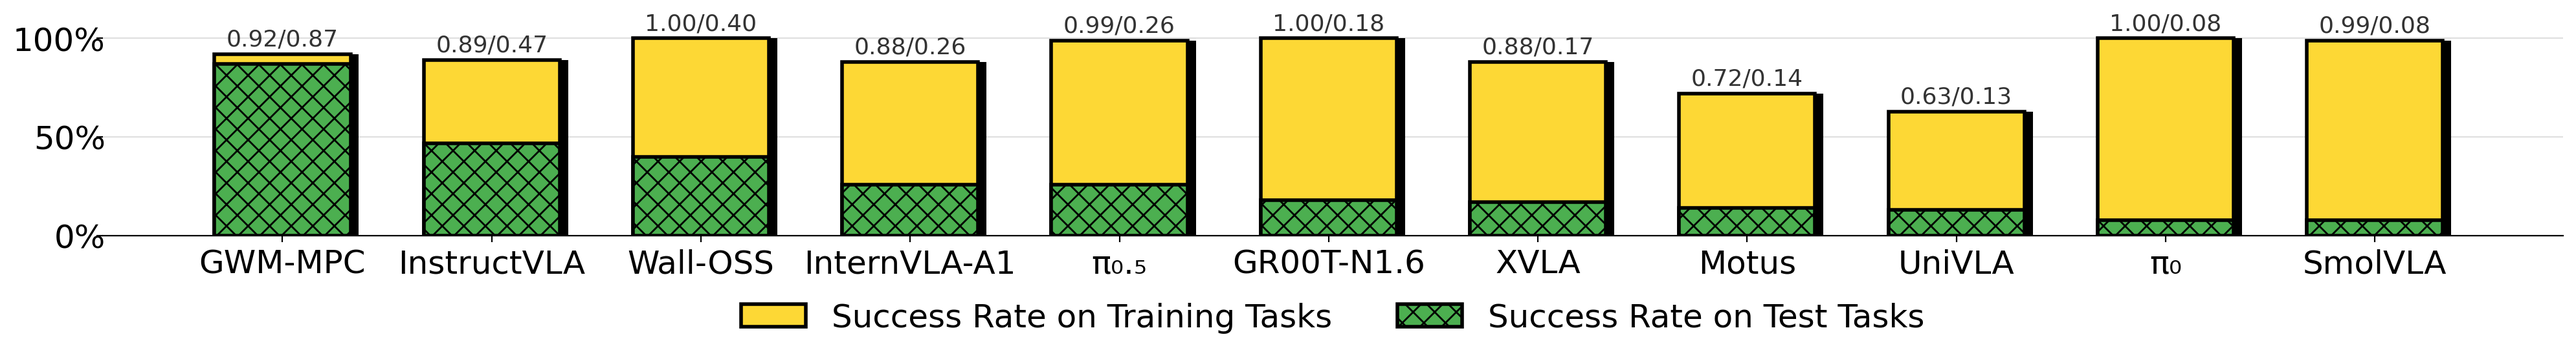
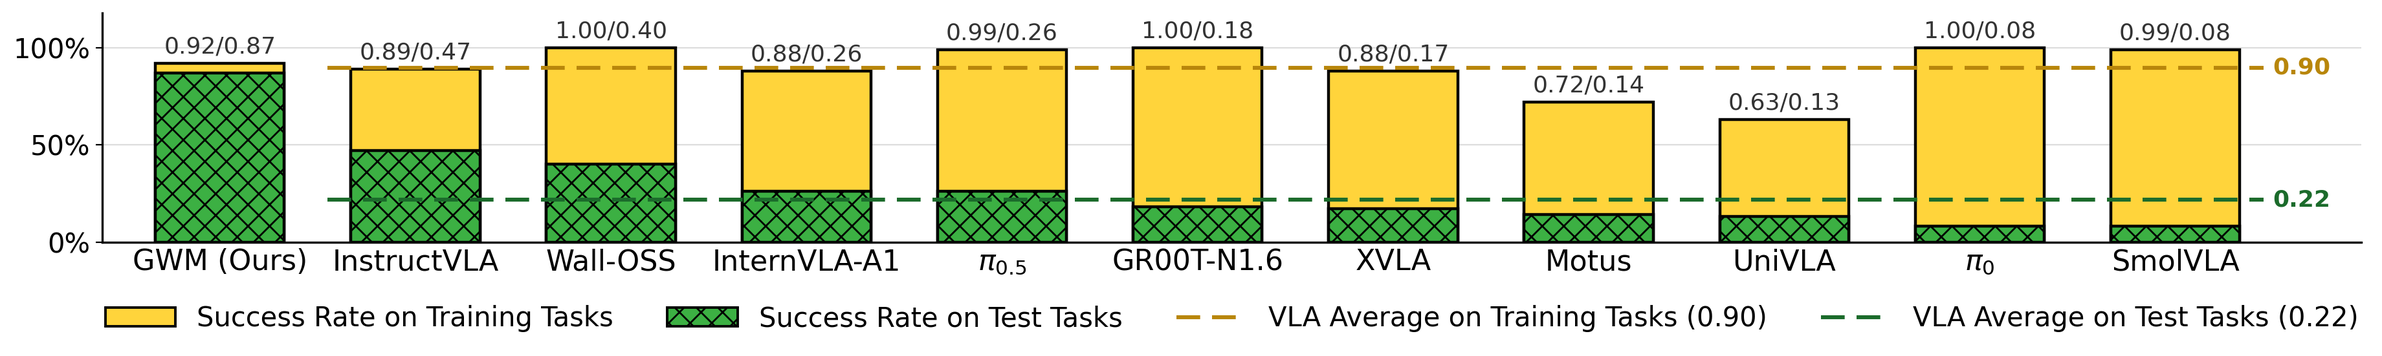
Refresh README, figures, and checkpoint links

diff --git a/gwm_wiser/scripts/zdirect_train.py b/gwm_wiser/scripts/zdirect_train.py
@@ -1,5 +1,5 @@
 """
-z-direct training (advisor question C012): predict the pooled 4096-d clip
+z-direct training: predict the pooled 4096-d clip
 embedding z_t = B(p_t) directly instead of the 1620 x 4096 token latent.
 
 Same corpus (merged_train / merged_test), condition clip, augmentation,

diff --git a/README.md b/README.md
@@ -1,249 +1,66 @@
 # Grounded World Model for Semantically Generalizable Planning
 
-[[arXiv]](https://arxiv.org/abs/2604.11751) [[checkpoint]](https://huggingface.co/Shady0057/GWM) [[dataset]](https://huggingface.co/datasets/Shady0057/WISER)
+[Paper](https://arxiv.org/abs/2604.11751) · [Website](https://quanyili.github.io/gwm-wiser/) · [WISER checkpoint](https://huggingface.co/Shady0057/GWM) · [DROID checkpoint](https://huggingface.co/Shady0057/GWM/tree/main/real_data) · [WISER dataset](https://huggingface.co/datasets/Shady0057/WISER)
 
-![teaser](docs/teaser.png)
-This repository contains the code for **GWM (Grounded World Model)** and the **WISER** benchmark.
+**GWM (Grounded World Model)** predicts future visual embeddings from an observation and candidate actions. A frozen vision-language readout scores these predictions against language goals for planning.
 
-GWM is a vision-language aligned world model that predicts future visual embeddings grounded in natural language, enabling semantically generalizable planning in manipulation tasks. 
-WISER (**W**orld-knowledge **I**ntegrated **S**emantic **E**mbodied **R**easoning) is the accompanying benchmark — a language-conditioned pick-and-place benchmark built on [ManiSkill](https://github.com/haosulab/ManiSkill) with 576 tasks (288 training + 288 held-out testing) covering massive open-world visual signals and aligned referring expressions.
+![GWM plans toward language goals instead of requiring a goal image.](docs/teaser.png)
 
-## Performance
-![wiser_exp](docs/teaser_exp_ret_combined.png)
-The success rate gap on training and test tasks indicates the semantic generalizability. The larger the gap, the worse the generalizability.
+This repository contains the core GWM implementation, the **WISER testbed**, real-data training, and the GWM × TiPToP system for simulation and Franka hardware. WISER provides 288 training and 288 held-out test tasks in ManiSkill for studying semantic generalization.
 
+![WISER task success on training and test tasks, with VLA averages shown as dashed lines.](docs/teaser_exp_ret_combined.png)
 
-## Installation
+## Code map
 
-A bare `pip install -e .` is **not allowed** — you must specify an extras group:
+| Task | Start here |
+| --- | --- |
+| WISER environment, tasks and assets | [gwm_wiser/env](gwm_wiser/env), [gwm_wiser/assets](gwm_wiser/assets) |
+| GWM model and planning | [gwm_wiser/models](gwm_wiser/models), [gwm_wiser/planner](gwm_wiser/planner) |
+| WISER data collection, GWM/VLA training and evaluation | [gwm_wiser/scripts](gwm_wiser/scripts), [SLURM recipes](gwm_wiser/scripts/slurm) |
+| GT-MPC sweeps and z-direct ablation | [sweeps](gwm_wiser/scripts/slurm/sweeps), [zdirect](gwm_wiser/scripts/slurm/zdirect) |
+| DROID/MolmoBot data preparation and GWM training | [real_data_train](real_data_train), [training entrypoint](real_data_train/train.py), [recipes](real_data_train/slurm) |
+| GWM scoring service and TiPToP integration | [droid/server](droid/server), [droid/gwm_tiptop](droid/gwm_tiptop) |
+| DROID-sim evaluation and V-JEPA 2-AC baseline | [droid/droid-sim-evals-ours](droid/droid-sim-evals-ours), [droid/v-jepa](droid/v-jepa) |
+| Pointing, drawer selection and pushing probes | [pointing](droid/gwm_point_cem), [drawer](droid/gwm_drawer/README.md), [pushing](droid/gwm_push_cem/README.md) |
+| Franka hardware | [droid/gwm_hardware](droid/gwm_hardware), [GWM entrypoint](droid/gwm_hardware/gwm_arm/run.sh) |
+
+## WISER setup
+
+Use Python 3.11+ and a compatible GPU environment. From the repository root:
 
 ```bash
-# WISER benchmark + LeRobot Baselines only (ManiSkill + LeRobot + tensordict)
-pip install -e '.[wiser]'
-
-# GWM + WISER (adds transformers, scikit-learn for GWM training/eval)
 pip install -e '.[gwm+wiser]'
-```
-
-> **Note:** To train pi0/wall-x policies, also install the corresponding LeRobot extras:
-> `pip install lerobot[pi]`, `pip install lerobot[wallx]`.
-
-Also install ffmpeg for video decoding:
-
-```bash
 conda install ffmpeg==6.1.1
 ```
 
----
+Use `.[wiser]` for WISER and LeRobot workflows without GWM. Install the corresponding LeRobot extras for policies that require them.
 
-## Scripts Reference
-These scripts are the main entry points for training and evaluation. 
-They can run on a single machine or on a cluster like SLURM.
-
-| Script | Purpose |
-|--------|---------|
-| `scripts/save_demo.py` | Collect expert demonstrations across all configs for both training and test |
-| `scripts/save_skill.py` | Collect a single-config skill dataset without RGB images for GWM/retrieval |
-| `scripts/gwm_train.py` | Train the Grounded World Model |
-| `scripts/gwm_eval.py` | Evaluate GWM or retrieval-based (GT-MPC) planners |
-| `scripts/lerobot_train.py` | Train LeRobot policies (pi0, SmolVLA, WallX, etc.) |
-| `scripts/lerobot_eval.py` | Evaluate trained LeRobot policies |
-
-SLURM submission scripts for each workflow are in `scripts/slurm/`. They also record the default parameters for these standalone scripts.
-
-> **Note:** The paths in SLURM scripts may need to be updated to match your environment.
-
----
-
-## Dataset
-
-The WISER dataset is collected with **LeRobot v0.4.3** in **LeRobotDataset v3.0** format. It is hosted on HuggingFace at [`Shady0057/WISER`](https://huggingface.co/datasets/Shady0057/WISER).
-
-| Split | Format | Size | Usage |
-|-------|--------|------|-------|
-| `merged_train` | LeRobot v3.0 | 2 GB | **Training** — used by all training scripts |
-| `merged_test` | LeRobot v3.0 | 332 MB | **Validation only** — validation loss during training and GT-MPC evaluation |
-| `no_noise_demo_1_round` | LeRobot v3.0 | 679 MB | **GT-MPC** — 1/6 of training data + all test data (pre-merged ) |
-| `rlds_train` | RLDS/TFDS | 21 GB | **Training** — for OpenVLA / InstructVLA / UniVLA baselines |
-
-> ⚠ `merged_test` is **never** used for training. It is only loaded for computing validation metrics and running the GT-MPC planner.
-
-### Download
+Download the WISER data and checkpoint with the Hugging Face CLI:
 
 ```bash
-# Install HuggingFace CLI (if not already installed)
-pip install huggingface_hub[cli]
-
-# Download LeRobot splits + GT-MPC data into wiser_dataset/
-hf download Shady0057/WISER \
-    --repo-type dataset \
-    --include "merged_train/**" "merged_test/**" "no_noise_demo_1_round/**" "README.md" \
+hf download Shady0057/WISER --repo-type dataset \
+    --include 'merged_train/**' 'merged_test/**' 'no_noise_demo_1_round/**' \
     --local-dir wiser_dataset
+hf download Shady0057/GWM checkpoint.pt --local-dir gwm_ckpt
 ```
 
-This places the dataset at `wiser_dataset/` in the repo root, which is the default path expected by all training and evaluation scripts.
+`merged_train` is used for training; `merged_test` is held out for validation. GT-MPC uses recorded future observations from `no_noise_demo_1_round`. Learned GWM planning uses the RGB-free skill data in [gwm_skills](gwm_skills) and predicts future embeddings.
 
-### Collect Your Own
+The main entrypoints are [gwm_train.py](gwm_wiser/scripts/gwm_train.py) and [gwm_eval.py](gwm_wiser/scripts/gwm_eval.py). For concrete configurations, start with [submit_gwm.run](gwm_wiser/scripts/slurm/submit_gwm.run) and [submit_gwm_eval.run](gwm_wiser/scripts/slurm/submit_gwm_eval.run). Set the dataset, GWM checkpoint and Qwen3-VL-Embedding paths for your machine before running. The same directory contains collection and LeRobot baseline recipes.
 
-Alternatively, you can collect the dataset yourself using the rule-based mplib expert planner. This is useful if you need a different LeRobot version, a customized dataloader, or modified collection parameters:
+## Real-data and robotics setup
+
+The [DROID checkpoint](https://huggingface.co/Shady0057/GWM/tree/main/real_data), trained on MolmoAct2-DROID and MolmoBot, is available for the simulation and hardware workflows:
 
 ```bash
-python gwm_wiser/scripts/save_demo.py \
-    --start_index 0 --end_index 24 \
-    --dataset_name wiser_dataset
+hf download Shady0057/GWM real_data/checkpoint.pt --local-dir gwm_ckpt
 ```
 
-This collects 1 no-noise round for both train and test tasks, and 5 additional noised rounds for training tasks only, then merges into `wiser_dataset/merged_train` and `wiser_dataset/merged_test`. For parallel data collection on a cluster, use the provided SLURM script:
+Use `gwm_ckpt/real_data/checkpoint.pt` as the GWM checkpoint. The companion `Qwen/Qwen3-VL-Embedding-8B` encoder must be downloaded separately.
 
-```bash
-sbatch gwm_wiser/scripts/slurm/submit_save_demo.run
-```
+Real-data preparation and training recipes are in [real_data_train/slurm](real_data_train/slurm). The robotics stack uses separate environments; start with the TiPToP [installation](droid/tiptop/docs/installation.md) and [simulation](droid/tiptop/docs/simulation.md) guides, then the relevant code-map entry above. Launch scripts contain machine-specific paths and service settings that need adapting.
 
-> **Note:** If you are collecting demos with the mplib planner, make sure `numpy==1.26.4` is installed. Pip warnings can be safely ignored.
-
----
-
-## WISER Environment
-
-The core interface is simple — build an environment with `build_endless_env`, then use `rollout()` for evaluation and data collection:
-
-```python
-from gwm_wiser.env.config import get_env_cfg
-from gwm_wiser.utils.env import build_endless_env
-from gwm_wiser.utils.rollout import rollout
-
-# Configure and build the environment (12 parallel envs)
-env_cfg = get_env_cfg(
-    num_env=12,
-    max_steps=120,
-    obs_mode="rgb+segmentation",
-    scene_cfg_to_overwrite=dict(mode="train", cfg_name="config_0"),
-)
-envs = build_endless_env(env_cfg, record_video=False, data_record_dir="output")
-
-# Run rollout with any policy and optionally save demos
-results = rollout(
-    envs,
-    policy=your_policy_fn,  # (obs) -> (action, expert_action, info)
-    round_to_collect=1,  # total episodes = num_env × rounds
-    demo_saving_dir="./demos",  # None to skip saving
-)
-
-envs.unwrapped.close()
-```
-
-`scripts/save_demo.py` is a good example of using these interfaces for data collection.
-`scripts/lerobot_eval.py` is a good example of using these interfaces for evaluation.
-
-
----
-
-## Grounded World Model
-
-### 1. Ground-Truth Planner (GT-MPC)
-
-The GT-MPC planner retrieves future observations directly from the pre-collected demonstrations to plan actions.
-See `slurm/submit_gwm_eval.run` for the full distributed evaluation setup (set `USE_GT=true` to enable GT-MPC).
-It uses ground-truth observations from the `--dataset_root` path; by default this path points to the `wiser_dataset/no_noise_demo_1_round` folder.
-
-GT-MPC requires access to future observations — this is only feasible when the demonstrations are available. To evaluate on truly held-out test scenarios where future observations are unknown, we need to train GWM on the training set to **predict** future visual outcomes.
-
-### 2. Train GWM
-
-Train the Grounded World Model on `merged_train` with multi-node DDP. See `slurm/submit_gwm.run` for the full parameter configuration:
-```bash
-sbatch gwm_wiser/scripts/slurm/submit_gwm.run
-```
-For action-conditioned GWM without rendering-based-tokenization, see `slurm/submit_gwm_ac.run`.
-Pre-trained GWM checkpoints are available on HuggingFace:
-
-| Model | HuggingFace Repo |
-|-------|-----------------|
-| GWM | [`Shady0057/GWM`](https://huggingface.co/Shady0057/GWM) |
-
-Download:
-
-```bash
-hf download Shady0057/GWM --local-dir gwm_ckpt
-```
-
-Then point `--gwm_ckpt_path` to the downloaded checkpoint when running evaluation.
-
-### 3. Evaluate GWM
-
-Evaluate the trained GWM planner across all configs with `gwm_eval.py`.
-See `slurm/submit_gwm_eval.run` for the distributed evaluation setup:
-
-```bash
-sbatch gwm_wiser/scripts/slurm/submit_gwm_eval.run
-```
-
-Results are aggregated automatically at the end of the SLURM job. The distributed evaluation also supports restoring from interruption — only configs that have not yet been evaluated will be re-run.
-
-The GWM planner uses a KNN to retrieve skills from training dataset.
-To safely exclude any possibility of ground-truth observation leakage, we retrieve from a mini split of the full training set, where all RGB images are masked.
-This mini split is already prepared at `gwm_skills`, and is generated with the following scripts.
-
-```bash
-python gwm_wiser/scripts/save_skill.py --robot panda # or xarm6
-```
-
-Alternatively, you can use any subset of the training data, as long as they cover all 12 unique skills required by WISER, such as `config_0_train` from `no_noise_demo_1_round`.
-
----
-
-## VLA Baselines
-
-### Train
-
-Train any LeRobot-compatible policy (pi0, SmolVLA, WallX, etc.) on `merged_train`. Refer to the SLURM scripts for full parameter configurations:
-
-| Policy | SLURM Script |
-|--------|-------------|
-| pi0 | `slurm/submit_pi0.run` |
-| pi0-FAST | `slurm/submit_pi0fast.run` |
-| pi0.5 | `slurm/submit_pi05.run` |
-| SmolVLA | `slurm/submit_smolvla.run` |
-| WallX-OSS | `slurm/submit_walloss.run` |
-| xVLA | `slurm/submit_xvla.run` |
-| others | In forked repos |
-
-Example:
-
-```bash
-sbatch gwm_wiser/scripts/slurm/submit_pi0.run
-```
-
-### Evaluate
-
-Evaluate a trained LeRobot policy. Refer to the corresponding `*_eval.run` scripts (e.g. `slurm/submit_pi0_eval.run`) for full configurations:
-
-```bash
-sbatch gwm_wiser/scripts/slurm/submit_pi0_eval.run
-```
-
-Restore from interruption is also supported for baselines evaluation scripts.
-
----
-
-## Convert to RLDS
-
-The WISER dataset can be converted from LeRobot format to [RLDS/TFDS](https://github.com/google-research/rlds) for training external baselines (e.g. OpenVLA-OFT, InstructVLA). The RLDS-converted split is also available on the same huggingface repo. To download it:
-
-```bash
-hf download Shady0057/WISER \
-    --repo-type dataset \
-    --include "rlds_train/**" \
-    --local-dir wiser_dataset
-```
-
-Or you can convert the LeRobot dataset to RLDS with the following script:
-
-```bash
-sbatch gwm_wiser/scripts/slurm/submit_convert_rlds.run
-```
-
----
+This is a source repository. Large datasets, checkpoints, simulator assets and generated robot assets are separate. The upstream DROID simulator, FoundationStereo, cuRobo/cuTAMP, V-JEPA 2 source and some VLA baseline forks must also be installed separately. Our drivers expect the simulator checkout at `droid/droid-sim-evals/` and V-JEPA 2 at `droid/v-jepa/vjepa2/`. TiPToP and M2T2 source are included under [droid/tiptop](droid/tiptop) and [droid/M2T2](droid/M2T2).
 
 ## Citation
 
